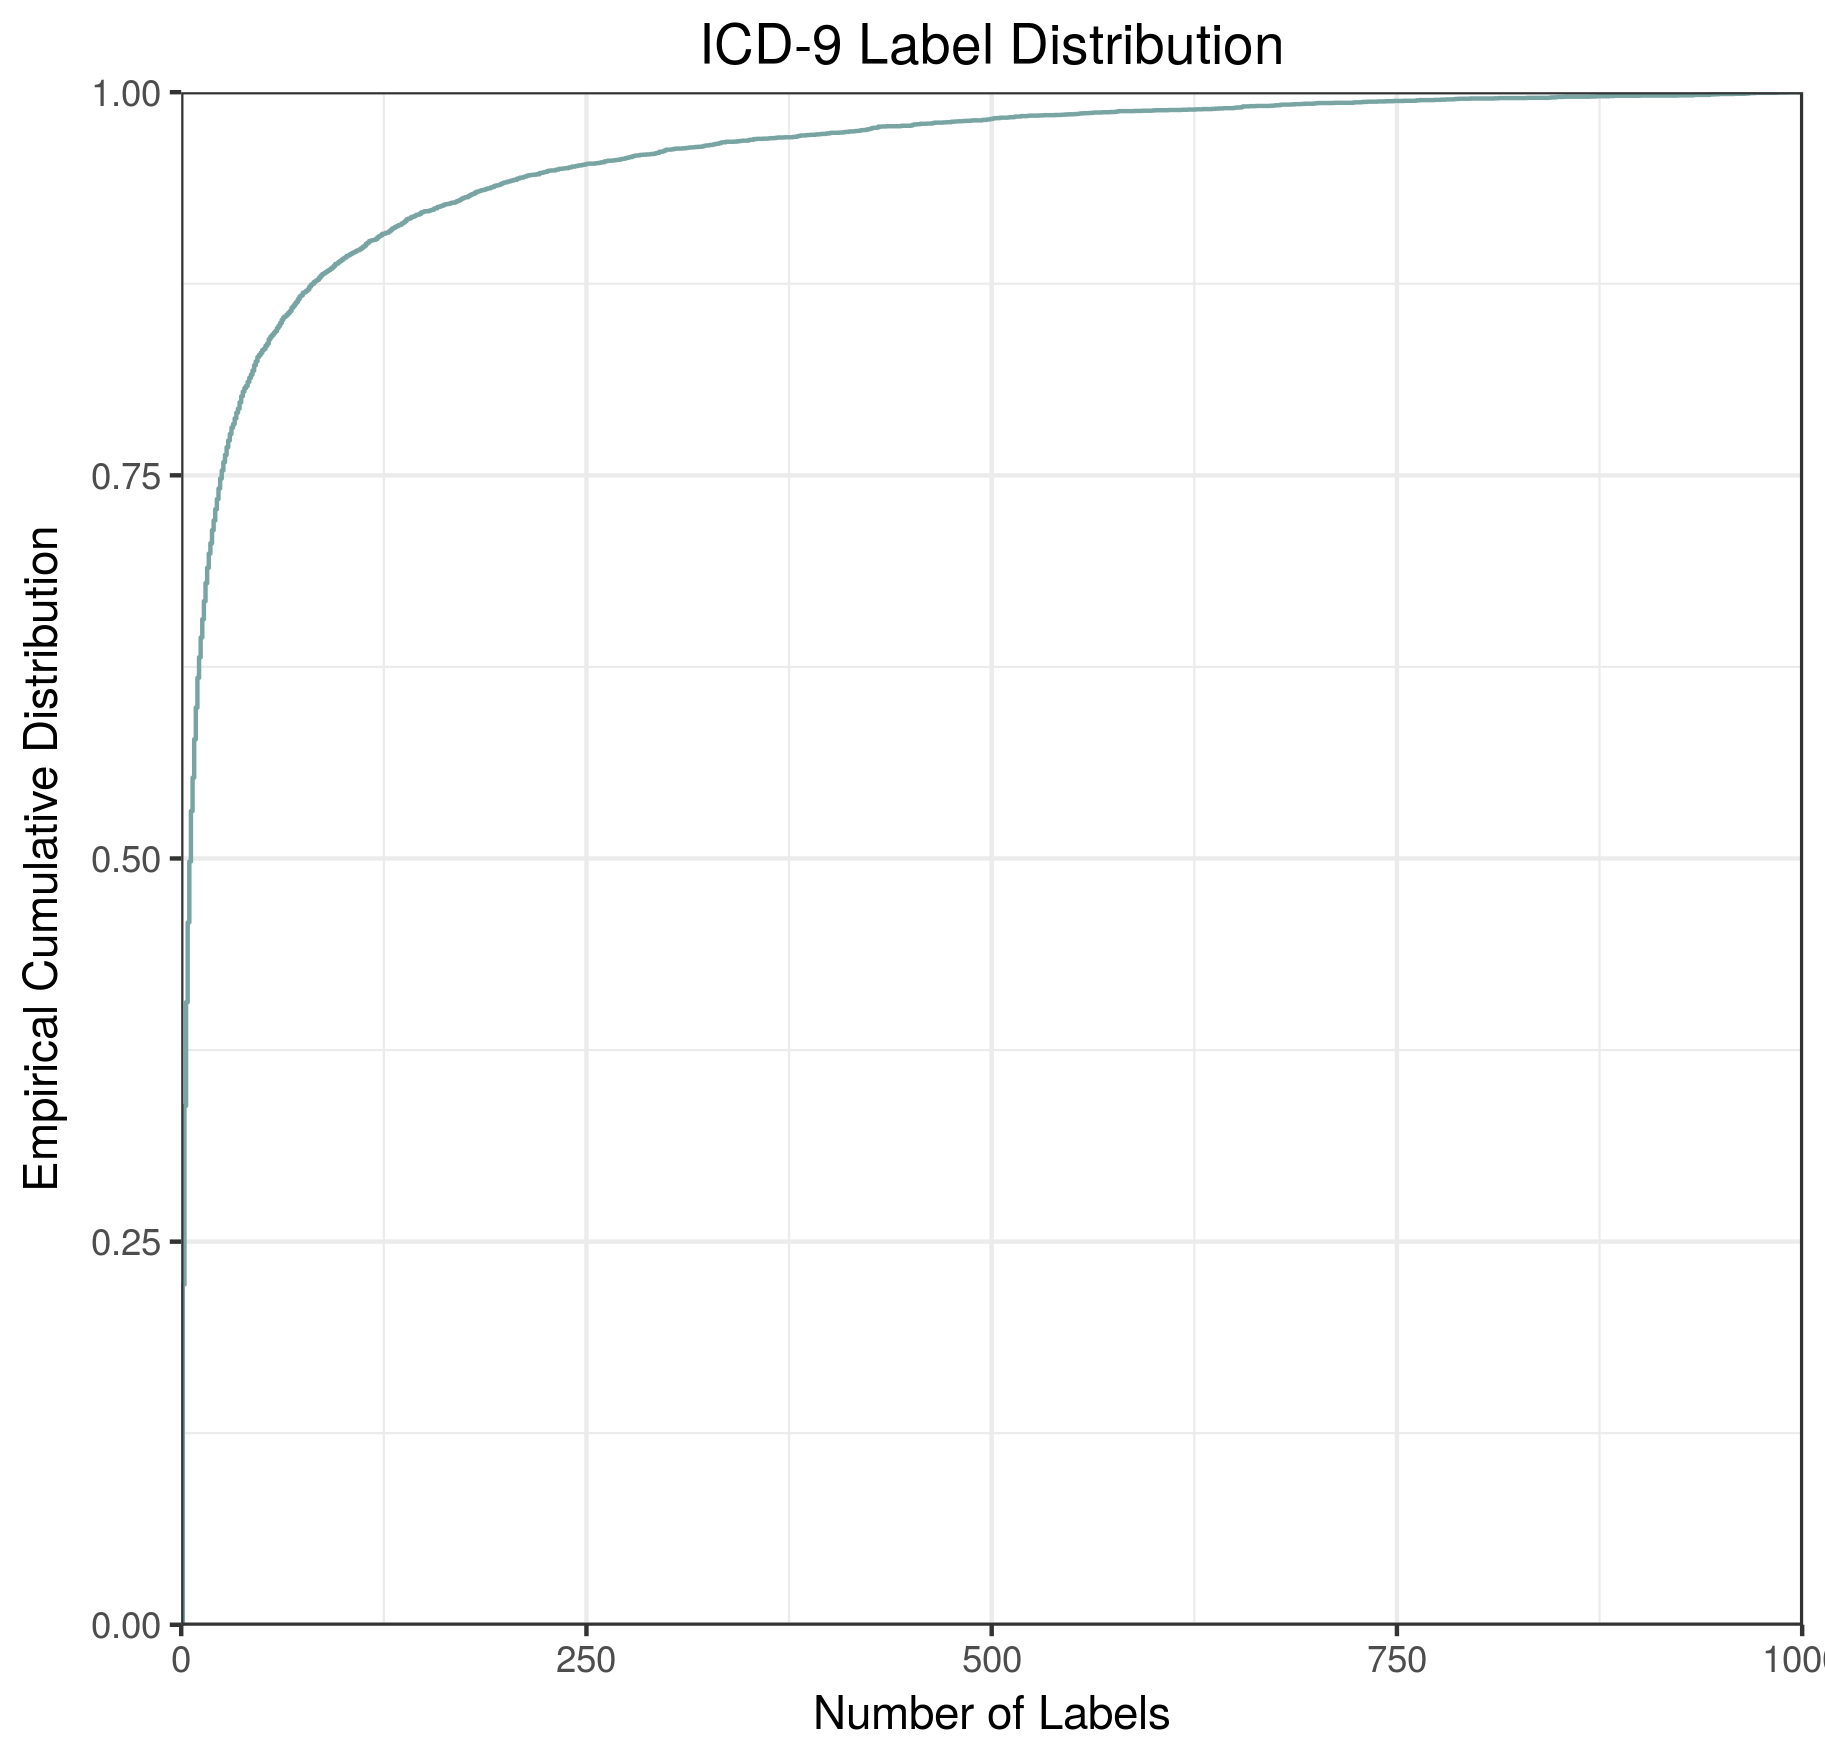
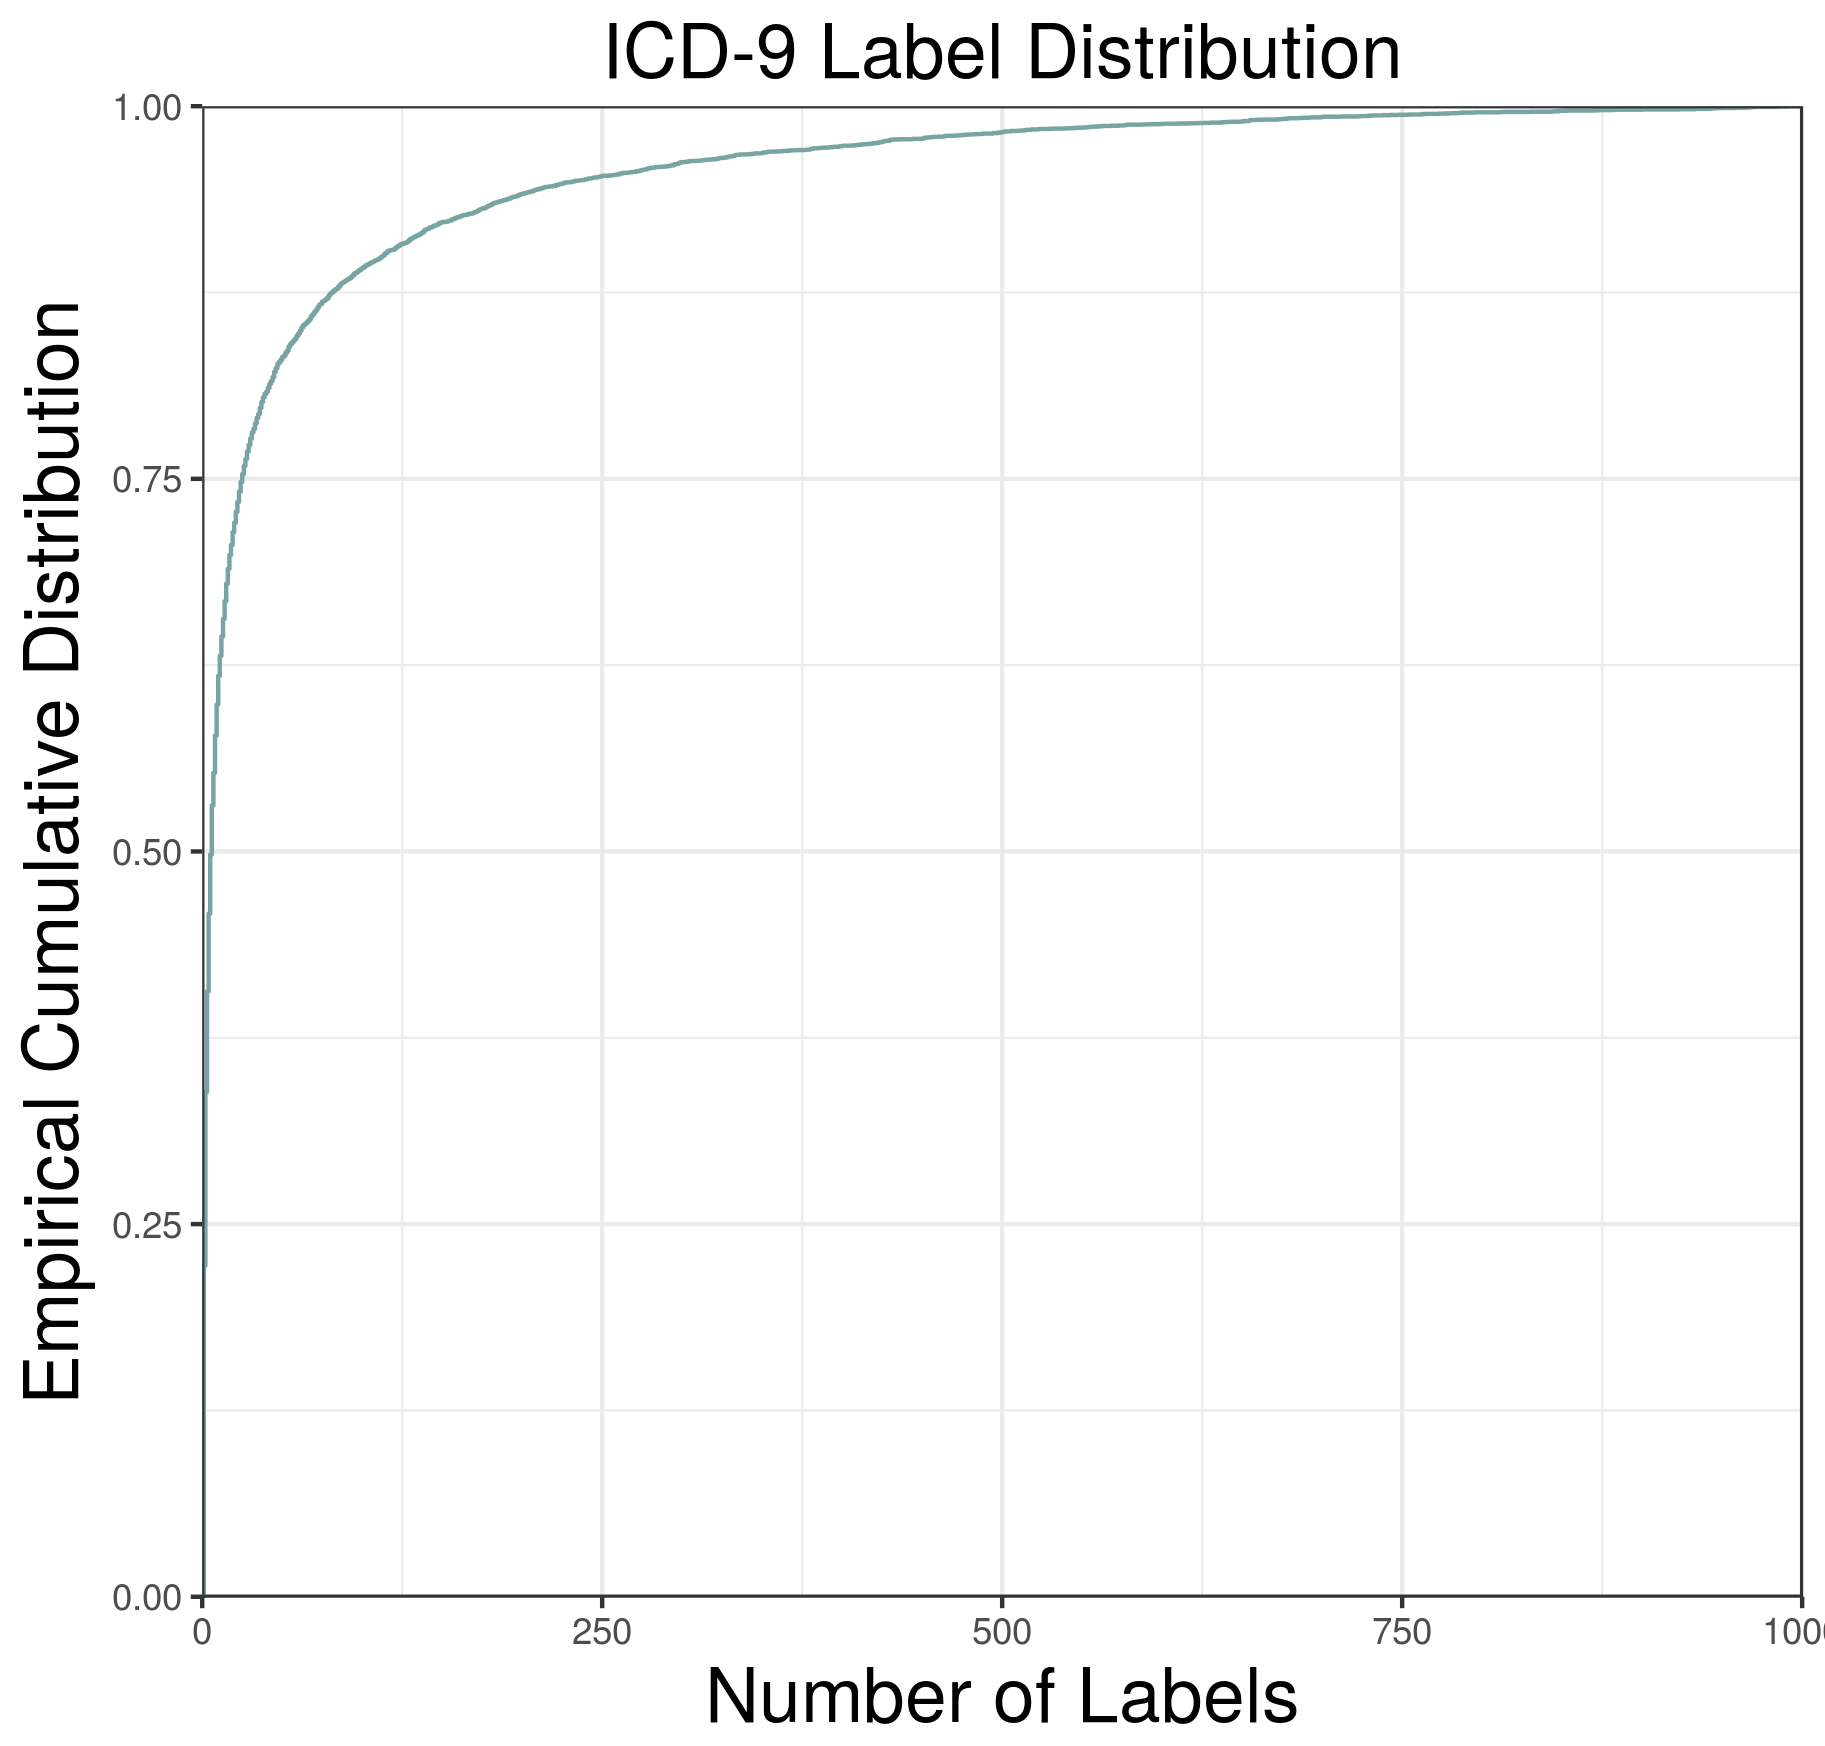
changes to plot title and axes sizes

diff --git a/src/taggerSystem/taggerModel.py b/src/taggerSystem/taggerModel.py
@@ -77,6 +77,9 @@ class taggerModel(Model):
     def run_epoch(self, sess, train_examples, dev_set, train_examples_raw, dev_set_raw):
         prog = Progbar(target=1 + int(len(train_examples) / self.config.batch_size))
         for i, batch in enumerate(minibatches(train_examples, self.config.batch_size)):
+            print(i)
+            print(batch)
+            1/0
             loss = self.train_on_batch(sess, *batch)
             prog.update(i + 1, [("train loss", loss)])
             if self.report: self.report.log_train_loss(loss)
